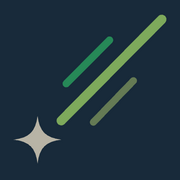
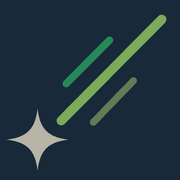
[fix] ヘッダーと LP のロゴを透過マークに差し替え、星を大きくする
ロゴ画像 4 点は 17-auto-comment-sender の assets/icon.svg を原本として
`npm run icons` が生成するようになった。手で編集しないこと（README に追記）。

・Header と LP の popup モック → 透過の /ochacomet-mark.svg。角丸は削除
  （丸める対象の面が無くなったため）
・favicon (app/icon.svg) → 透過。タブバーの明暗に追従する
・LP のデスクトップ通知モックだけは板つきの ochacomet-icon.png のまま。
  実物の通知は拡張のアイコン（板つき）で出るので、モックもそれに合わせる
・apple-icon.png は板つきを維持。iOS はホーム画面追加で透明部分を黒く塗るため

このサイトはダークモードを持たない（--color-canvas 1 テーマ）ので、
public/ochacomet-mark.svg は明るい地で成立する配色に固定してある。

Changed region(s): [[0.0278, 0.6111, 0.3889, 0.9444]]

diff --git a/components/lp/OchaCometPopup.tsx b/components/lp/OchaCometPopup.tsx
@@ -33,13 +33,14 @@ export function OchaCometPopup() {
         {/* Header */}
         <header className="mb-3 flex items-center justify-between">
           <div className="flex items-center gap-2">
+            {/* 実物の popup も透過のマークなので、モックもそちらに合わせる */}
             <Image
-              src="/ochacomet-icon.png"
+              src="/ochacomet-mark.svg"
               width={28}
               height={28}
               alt=""
               aria-hidden
-              className="h-7 w-7 rounded-md"
+              className="h-7 w-7"
               unoptimized
             />
             <h2 className="m-0 text-[19px] font-black leading-none text-[#1d2939]">

diff --git a/components/Header.tsx b/components/Header.tsx
@@ -19,13 +19,14 @@ export function Header() {
           href="/"
           className="flex items-center gap-2 text-base font-extrabold text-ink"
         >
+          {/* 透過のマーク。角丸は掛けない（丸める対象の面が無い） */}
           <Image
-            src="/ochacomet-icon.png"
+            src="/ochacomet-mark.svg"
             width={28}
             height={28}
             alt=""
             aria-hidden
-            className="h-7 w-7 rounded-md"
+            className="h-7 w-7"
             unoptimized
           />
           OchaComet

diff --git a/components/lp/NotificationToast.tsx b/components/lp/NotificationToast.tsx
@@ -13,6 +13,11 @@ export function NotificationToast() {
     >
       {/* Header + body */}
       <div className="flex gap-3 px-3.5 py-3">
+        {/*
+          ここだけ濃紺の板つきアイコンのまま。実物のデスクトップ通知は
+          拡張のアイコン（assets/icons/128.png = 板つき）で表示されるので、
+          モックもそれに合わせる。透過にすると実物と食い違う。
+        */}
         <Image
           src="/ochacomet-icon.png"
           width={40}
